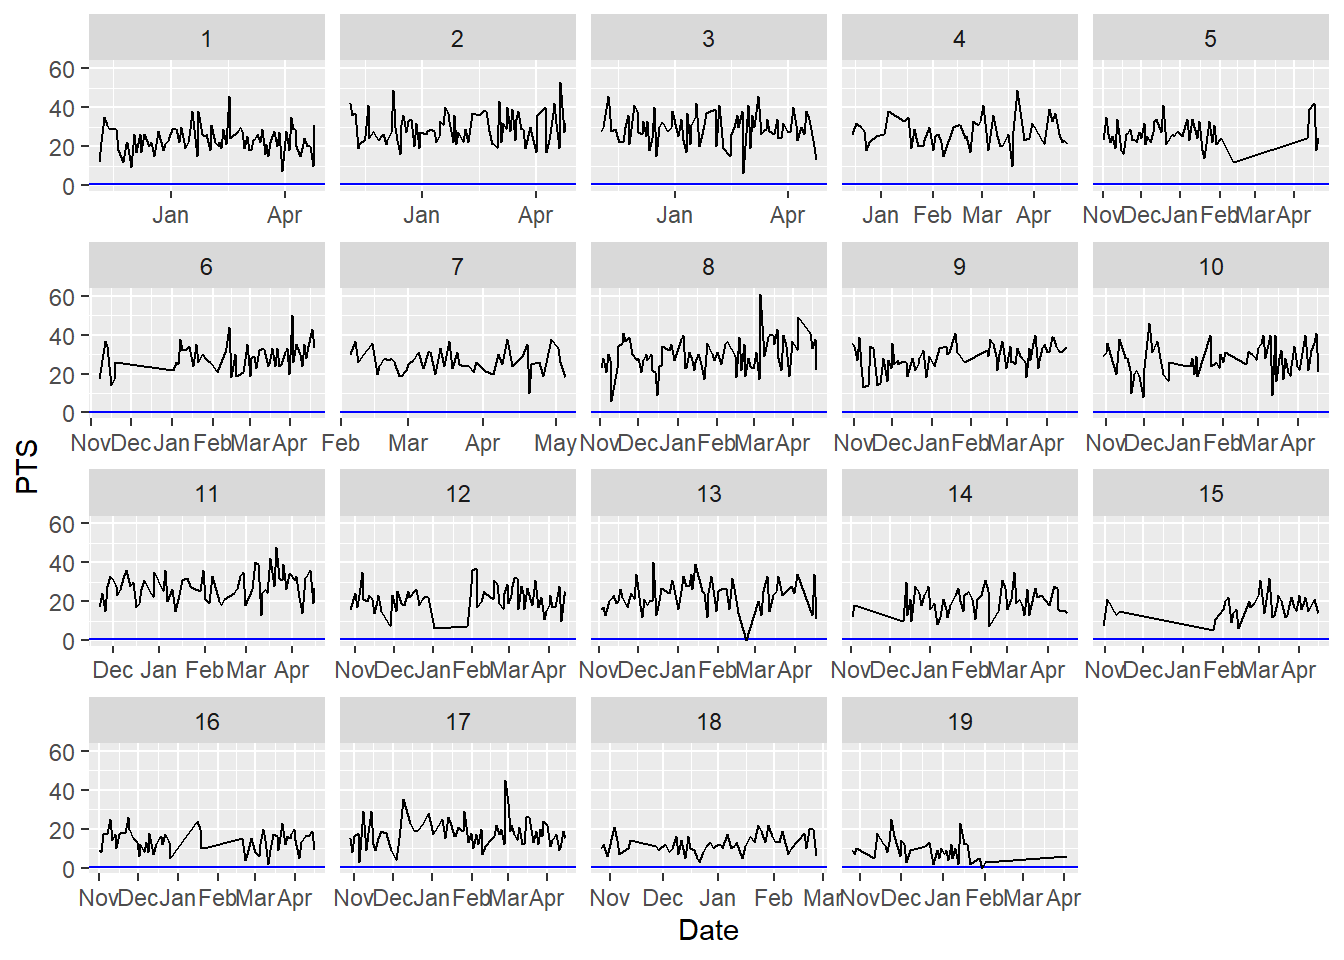
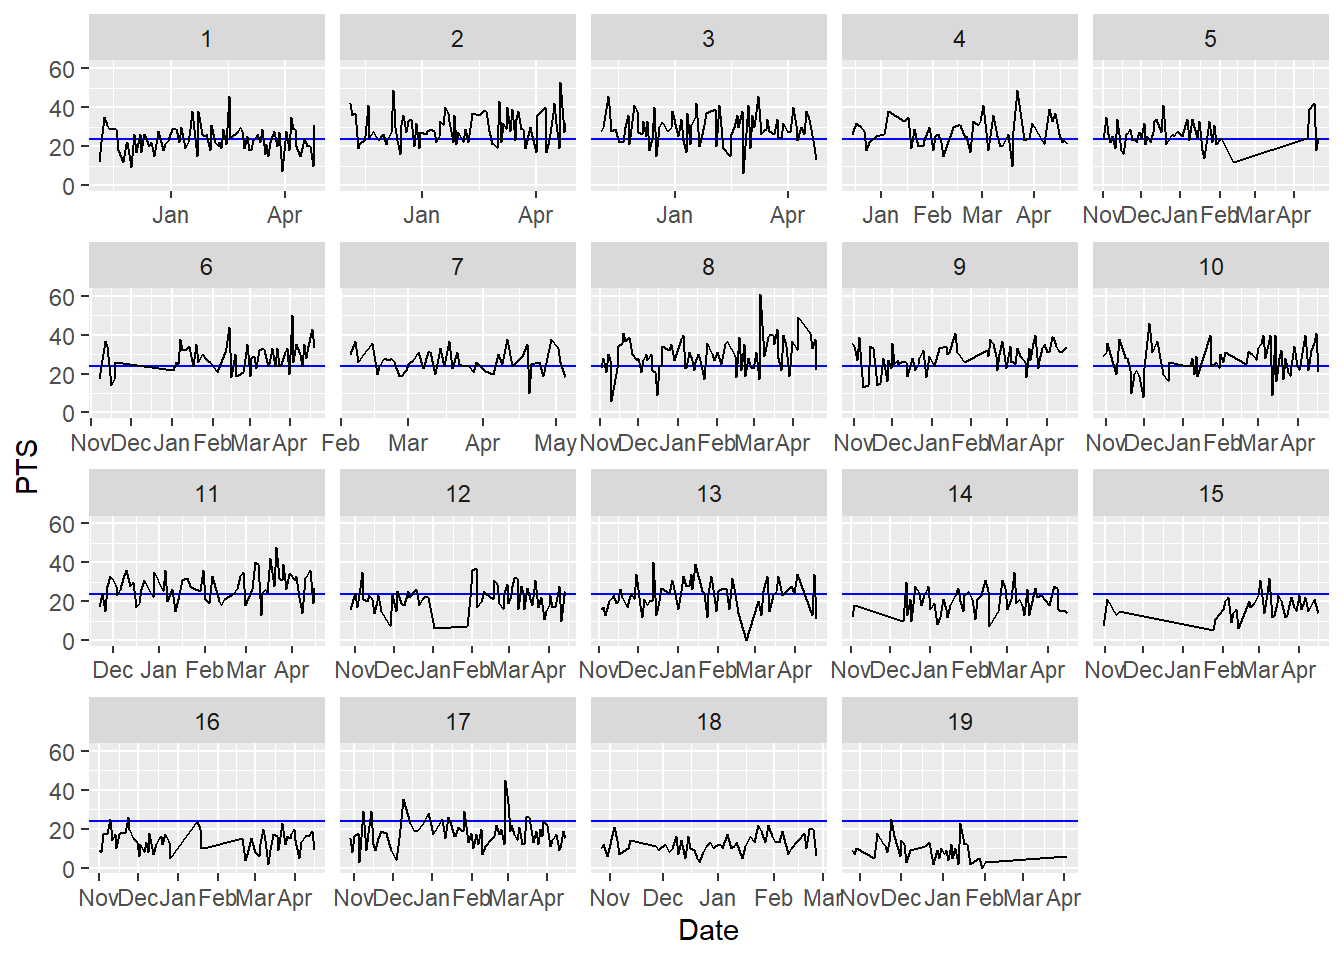
updating post

diff --git a/2021/04/01/shaq-s-career/index.html b/2021/04/01/shaq-s-career/index.html
@@ -129,7 +129,7 @@ Now looking at the chart we see Shaq’s season 6-8 in Shaq’s career look like
 ## 1        23.7</code></pre>
 <pre class="r"><code>levels &lt;- as.character(c(1:19))
 ggplot() + 
-  geom_hline(yintercept=.4361078, color=&quot;blue&quot;) + 
+  geom_hline(yintercept=23.6918, color=&quot;blue&quot;) + 
   geom_line(data=log, aes(x=Date, y=PTS, group=Season)) + 
   facet_wrap(.~factor(Season,levels = levels), scales = &quot;free_x&quot;)</code></pre>
 <p><img src="/2021/04/01/shaq-s-career/index_files/figure-html/unnamed-chunk-6-1.png" width="672" /></p>
